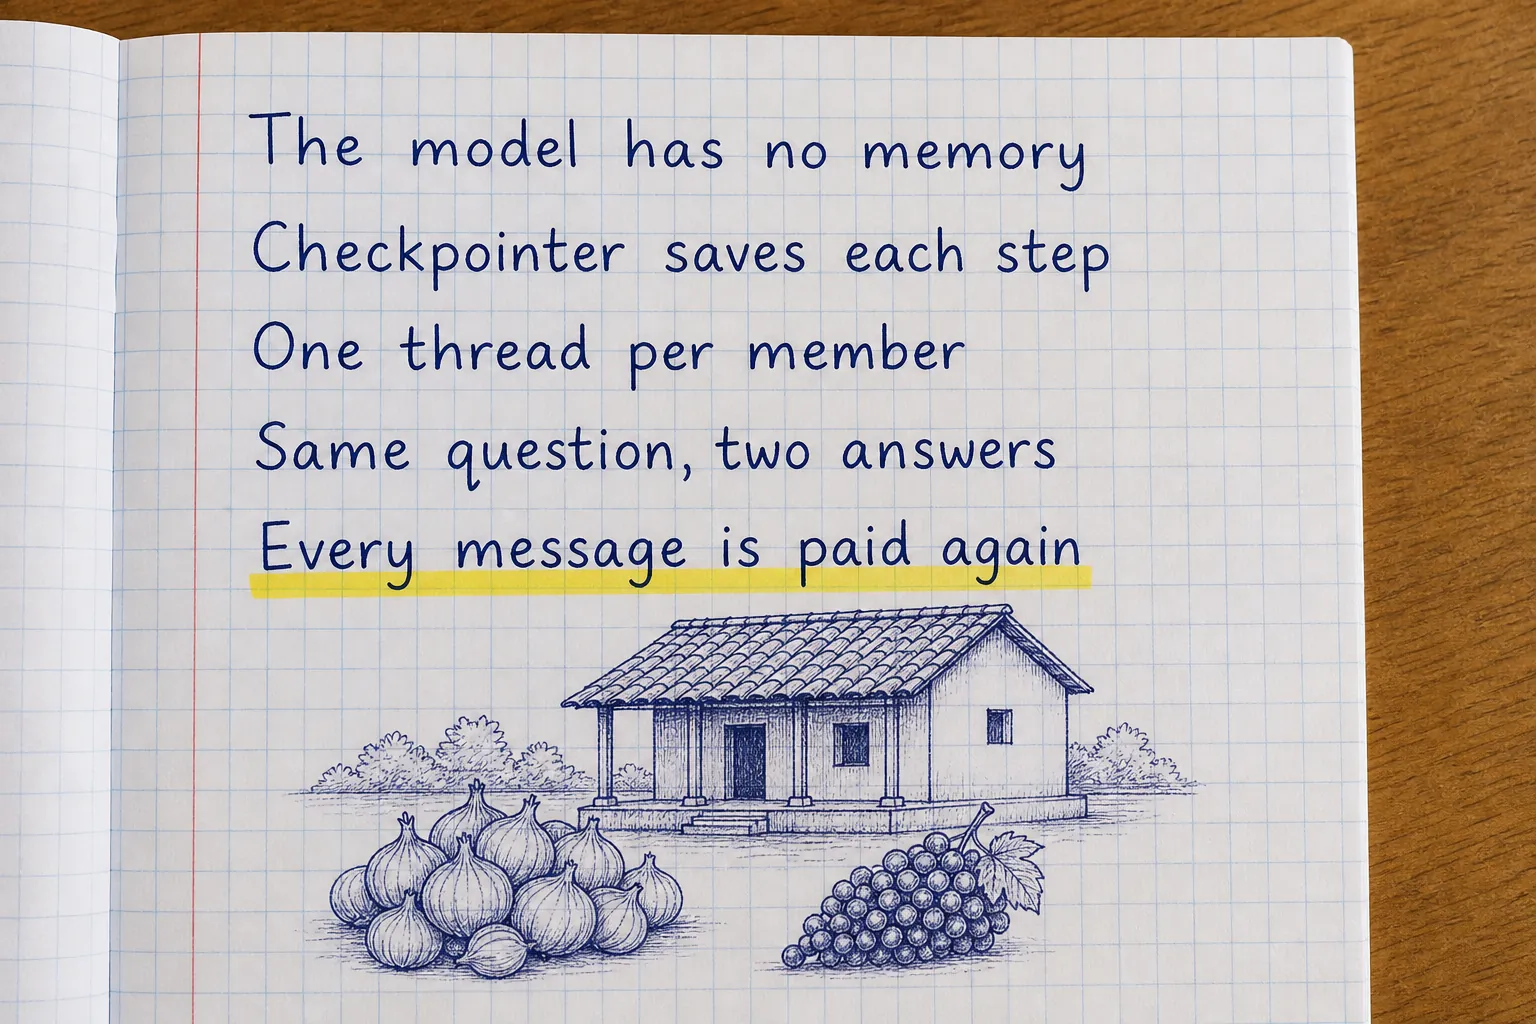
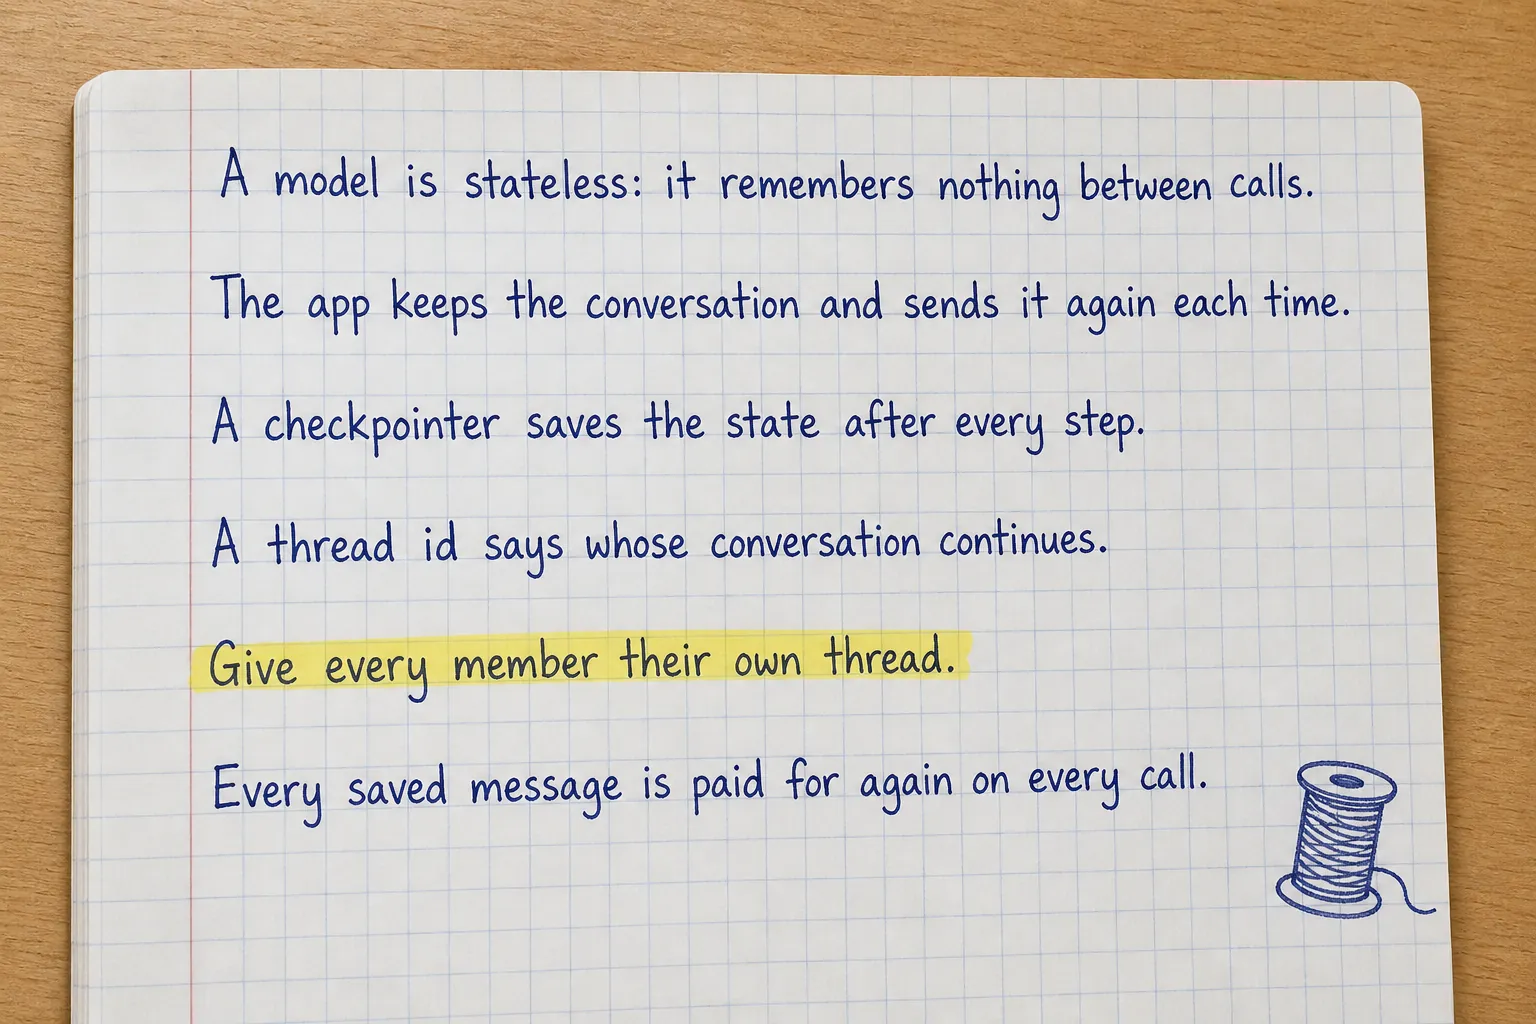
LangChain chapter 15 rewritten: plain and fuller, a still picture of two real threads, claims checked

diff --git a/frontend/src/lesson/Diagrams.tsx b/frontend/src/lesson/Diagrams.tsx
@@ -2436,18 +2436,41 @@ function LcAgentLoop() {
 }
 
 function LcMemoryThreads() {
+  // Still (owner, 25 November): chapter 15's real run as two saved threads, side by side.
+  const ravi: [string, string][] = [
+    ["Ravi", "I am Ravi ... 40 crates."],
+    ["Navin", "How many days?"],
+    ["Ravi", "Cost of them for 15 days?"],
+    ["Navin", "storage_cost(40, 15): 1200"],
+    ["Ravi", "What is my name?"],
+    ["Navin", "Your name is Ravi."],
+  ];
+  const asha: [string, string][] = [
+    ["Asha", "Cost of them for 15 days?"],
+    ["Navin", "Please tell me the number..."],
+  ];
+  const col = (title: string, rows: [string, string][], x: number) => (
+    <g>
+      <text className="dg-label" x={x} y={16}>{title}</text>
+      <g className="dg-cells-small">
+        {rows.map(([who, text], i) => (
+          <g key={i}>
+            <Box x={x} y={28 + i * 46} w={210} h={38} label="" tone={who === "Navin" ? "copy" : "plain"} />
+            <text className="dg-note" x={x + 10} y={28 + i * 46 + 16} style={{ fontWeight: 600 }}>{who}</text>
+            <text className="dg-note" x={x + 10} y={28 + i * 46 + 32}>{text}</text>
+          </g>
+        ))}
+      </g>
+    </g>
+  );
   return (
-    <SketchSteps
-      title="a checkpointer and two threads"
-      intro="Press Play to follow Ravi and Asha."
-      label="each message is added to its thread's saved state; the model receives that thread's whole conversation; another thread starts empty"
-      steps={[
-        { label: "1. Ravi, thread M-104", says: "I am Ravi, 40 crates of onions. Saved under M-104." },
-        { label: "2. Ravi again", says: "How much for 15 days? The model receives Ravi's whole thread, so them means 40 crates." },
-        { label: "3. Asha, thread M-221", says: "The same words, but her thread is empty: the model asks how many crates." },
-        { label: "4. Ravi a third time", says: "What is my name? His thread still holds it." },
-      ]}
-    />
+    <Svg viewBox="0 0 440 340" label="Ravi's thread M-104 holds his whole conversation, so them means his 40 crates; Asha's thread M-221 starts empty, so Navin asks her">
+      {col("thread M-104 (Ravi)", ravi, 0)}
+      {col("thread M-221 (Asha)", asha, 230)}
+      <text className="dg-note" x={230} y={150}>Asha's thread has no</text>
+      <text className="dg-note" x={230} y={168}>Ravi in it: the same</text>
+      <text className="dg-note" x={230} y={186}>words, a different answer.</text>
+    </Svg>
   );
 }
 

diff --git a/labs/langchain/chapters/15-memory.md b/labs/langchain/chapters/15-memory.md
@@ -23,8 +23,8 @@ forgets you as soon as it has answered. Fine for documents; useless for a shoppi
 In **1994** Lou Montulli at Netscape invented the **cookie**: a small id the server gives the browser, which sends it
 back with every request, so the server can find "this visitor's" data again. A chat model has the same problem and the
 same solution: the model is stateless, the application keeps the conversation, and an id (a session, a **thread**)
-says whose conversation it is. When ChatGPT added a memory feature in **2024**, it was built the same way: memory lives
-in the application, not in the model.
+says whose conversation it is. When ChatGPT added a memory feature in **2024**, OpenAI described it as saved memories that the app brings into later
+chats: kept by the application, not learned by the model.
 
 :::solved
 **State outside the model.** The model stays simple and stateless; the app decides what to remember, for whom, and
@@ -62,8 +62,12 @@ summarising, so long conversations stay affordable.
 :::
 
 :::step{type=task task=memory_agent title="Your turn: an agent that remembers" file="15-memory/memory.py" line="10-13"}
-Finish `memory_agent()`: chapter 11's agent (model, both tools, `system_prompt=SYSTEM`) with
-`checkpointer=InMemorySaver()`.
+Finish `memory_agent()`: return chapter 11's agent with one more argument:
+
+`create_agent("openai:ai-chat", tools=[mandi_price, storage_cost], system_prompt=SYSTEM, checkpointer=InMemorySaver())`
+
+The usual slip: making a new `InMemorySaver()` inside `ask` for every message. Each saver starts empty, so nothing
+would be remembered; make one, with the agent.
 
 Press **Check**.
 :::
@@ -85,13 +89,18 @@ A real app might use one thread per conversation instead (a member can start a n
 the context (chapter 12). Either way: a thread must never be shared by two people.
 
 :::diagram{name="lc-memory-threads"}
-Each message joins its own thread's saved conversation; a new thread starts empty.
+The real run as two saved threads: Ravi's holds his whole conversation; Asha's starts empty.
 :::
 :::
 
 :::step{type=task task=thread_per_member title="Your turn: one thread per member" file="15-memory/memory.py" line="16-20"}
-Finish `ask(agent, member_id, text)`: invoke the agent with the message and
-`{"configurable": {"thread_id": member_id}}`, and return the last message's content.
+Finish `ask(agent, member_id, text)`:
+
+1. `result = agent.invoke({"messages": [{"role": "user", "content": text}]}, {"configurable": {"thread_id": member_id}})`.
+   The second argument is the run's **config**: settings for this one run, here which thread to continue.
+2. Return `result["messages"][-1].content`.
+
+The usual slip: using the same thread id for everyone (`"navin"`): then Asha would see Ravi's crates.
 
 ```bash run
 cd /workspace/15-memory && python main.py
@@ -101,6 +110,9 @@ Press **Check**.
 :::
 
 :::step{type=try title="Ravi is remembered; Asha starts fresh"}
+A real run (we ran it again on 25 November: the same behaviour, in slightly different words, for example "Please tell
+me the number of crates you want to store" for Asha):
+
 ```text
 $ python main.py
 [M-104] > Hello, I am Ravi. I grow onions and have 40 crates to store.
@@ -180,7 +192,7 @@ You can now:
 
 Next, chapter 16: streaming an agent, its steps and its answer, as they happen.
 
-:::photo{src="/lesson-images/langchain/lc-15-notes.webp" alt="Handwritten notes about short-term memory: The model has no memory; Checkpointer saves each step; One thread per member; Same question, two answers; Every message is paid again" ai="true"}
+:::photo{src="/lesson-images/langchain/lc-15-notes.webp" alt="Handwritten notes about memory: A model is stateless: it remembers nothing between calls. The app keeps the conversation and sends it again each time. A checkpointer saves the state after every step. A thread id says whose conversation continues. Give every member their own thread. Every saved message is paid for again on every call." ai="true"}
 One page of notes for this chapter.
 :::
 :::

diff --git a/CHANGELOG.md b/CHANGELOG.md
@@ -1,5 +1,14 @@
 # Changelog
 
+## 25 November: LangChain chapter 15 rewritten (easy, a little detailed, checked)
+
+- Stateless, checkpointer, thread and config are explained where they first appear; both tasks list their steps and
+  the usual slips (a new saver per message; one thread id for everyone).
+- The threads animation is now a still picture of the real run: Ravi's thread and Asha's, side by side.
+- Checked through the lab gateway: the same behaviour in slightly different words (Ravi remembered, 1,200 rupees,
+  Asha asked for her crates, Ravi's name kept); chapter 27 does cover the long-term store. Corrected: ChatGPT's memory
+  is described as OpenAI describes it (saved memories the app brings into later chats). A new notes page.
+
 ## 25 November: LangChain chapter 14 rewritten (easy, a little detailed, checked)
 
 - Content block, MIME type and tile are explained where they first appear; both tasks list their steps and the usual

diff --git a/REWRITE_LIST.md b/REWRITE_LIST.md
@@ -11,7 +11,7 @@ Status: **1 of 23 labs done** (13 of 319 chapters).
 | # | Lab | Title | Chapters | Status | Done on |
 |---|---|---|---|---|---|
 | 1 | rag-vector-databases | RAG and vector databases | 13 | done (13 of 13) | 25 Nov |
-| 2 | langchain | LangChain | 27 | in progress (14 of 27) | |
+| 2 | langchain | LangChain | 27 | in progress (15 of 27) | |
 | 3 | langchain4j | LangChain4j | 30 | not started | |
 | 4 | langgraph | LangGraph | 24 | not started | |
 | 5 | spring-ai | Spring AI | 20 | not started | |
